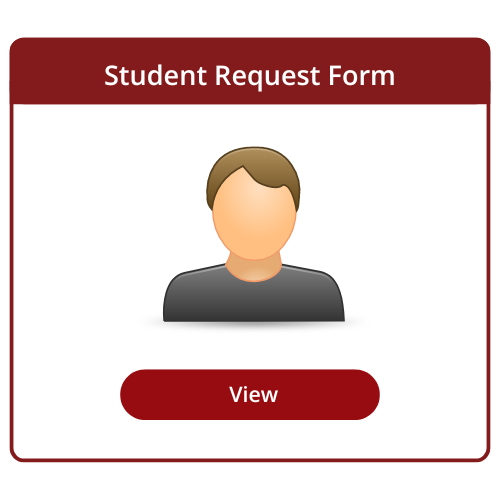
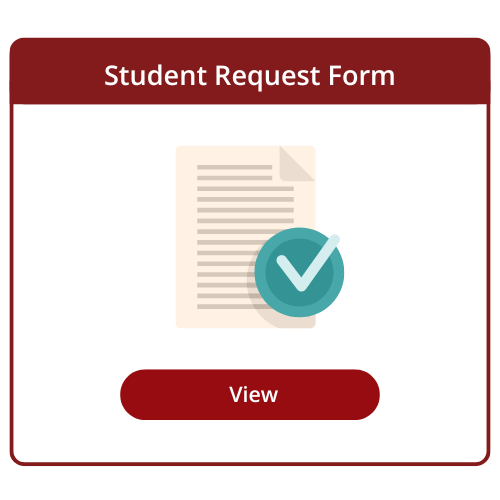
user request and admin dashboard design modified

Changed region(s): [[0.3, 0.27, 0.69, 0.66], [0.0, 0.9, 0.99, 0.93]]

diff --git a/resources/js/Pages/Papers/User/Partials/PaperDetails.jsx b/resources/js/Pages/Papers/User/Partials/PaperDetails.jsx
@@ -5,9 +5,10 @@ import { useForm } from '@inertiajs/react';
 import RequestForm from '@/Components/RequestForm'; // Adjust the path as needed
 // Import the request_button.png, pdf_icon.png, and x_button.png images
 import requestButtonImg from '@/Components/request_button.png';
-import pdfIconImg from '@/Components/pdf_icon.png';
+import pdfIconImg from '@/Components/view file.png';
 import exitButtonImg from '@/Components/x_button.png';
-import logoImg from '@/Components/logo2.png'; // Import the logo image
+import noFile from '@/Components/nofile.png'; // Import the logo image
+import pendingFile from '@/Components/pending file.png'; 
 
 export default function PaperDetails({ user, paper, className = '', success , status}) {
     const { data, setData, post } = useForm({
@@ -101,25 +102,18 @@ export default function PaperDetails({ user, paper, className = '', success , st
                                             <img
                                                 src={pdfIconImg}
                                                 alt="PDF Icon"
-                                                className="block mx-auto w-15 h-20 mb-4"
+                                                className=" mx-auto w-1/2 h-1/2 mb-4"
                                                 style={{ pointerEvents: 'none' }}
                                             />
                                         </a>
-                                        <p className="text-sm mt-2 mb-4" style={{ fontSize: '10px', lineHeight: '1.4' }}>
-                                            View PDF File
-                                        </p>
                                     </div>
                                 ) : (
                                     <div>
-                                    <p className="text-sm mt-2 mb-4" style={{ fontSize: '10px', lineHeight: '1.4' }}>
-                                    To read the full-text of this research,<br></br>
-                                    you can request a copy directly<br></br> from the authors.
-                                    </p>
 
                                     <img
-                                        src={requestButtonImg}
+                                        src={pendingFile}
                                         alt="Request Button"
-                                        className="block mx-auto w-15 h-10"
+                                        className="mx-auto w-1/2 h-1/2"
                                         onClick={handleRequestButtonClick}
                                     />
                                     </div>
@@ -128,7 +122,12 @@ export default function PaperDetails({ user, paper, className = '', success , st
 
                             </div>
                         ) : (
-                            <p>No file</p>
+                            <img
+                            src={noFile}
+                            alt="PDF Icon"
+                            className="mx-auto w-1/2 h-1/2 mb-4"
+                            style={{ pointerEvents: 'none' }}
+                        />
                         )}
                         {success && (
                             <div className="bg-green-400 p-4 rounded-md relative">

diff --git a/resources/js/Pages/AdminDashboard.jsx b/resources/js/Pages/AdminDashboard.jsx
@@ -2,6 +2,7 @@ import AuthenticatedLayout from '@/Layouts/AuthenticatedLayout';
 import { Head } from '@inertiajs/react';
 import logo from '@/Components/logo.png'; // Importing the logo image
 import modifyIcon from '../../../resources/js/Components/modify.png'; // Importing modify icon
+import modifyStudent from '@/Components/modify_student.png'; // Importing the logo image
 import requestIcon from '../../../resources/js/Components/request.png'; // Importing request icon
 import '../../../resources/css/Scrollbar.css';
 import { useEffect } from 'react';
@@ -35,17 +36,15 @@ export default function AdminDashboard({ auth }) {
                         </Link>
                     </div>
 
-                    <div style={{ marginLeft: '20px' }}>
+                    <div style={{ marginRight: '20px'  }}>
                         <Link href={route('userrequest.index')} style={{ color: '#831b1c'}}>
                             <img src={requestIcon} alt="Modify Request Paper" style={{ width: '100%', height: '100%' }} />
                         </Link>
                     </div>
 
-                    <div style={{ marginLeft: '20px' }}>
                         <Link href={route('student.view')} style={{ color: '#831b1c'}}>
-                            <img src={requestIcon} alt="Modify Student Database" style={{ width: '100%', height: '100%' }} />
+                            <img src={modifyStudent} alt="Modify Student Database" style={{ width: '100%', height: '100%' }} />
                         </Link>
-                    </div>
                 </div>
             </div>
         </AuthenticatedLayout>

diff --git a/resources/js/Components/RequestForm.jsx b/resources/js/Components/RequestForm.jsx
@@ -2,7 +2,7 @@ import React from 'react';
 import exitButtonImg from '@/Components/x_button.png';
 import logoImg from '@/Components/logo2.png';
 
-const RequestForm = ({ user, data, setData, submit, handleCloseForm, title }) => {
+const RequestForm = ({ user, data, setData, submit, handleCloseForm }) => {
     // Determine whether the user is an admin
     const isAdmin = user.role === 'admin';
     const handleSubmit = (e, action) => {
@@ -42,7 +42,7 @@ const RequestForm = ({ user, data, setData, submit, handleCloseForm, title }) =>
                         </div>
                         <div style={{ display: 'flex', flexDirection: 'row', alignItems: 'center', marginBottom: '10px', fontSize: '10px' }}>
                             <label htmlFor="title" style={{ marginRight: '5px', width: '50px', textAlign: 'left' ,fontWeight: 'bold'}}>Title:</label>
-                            <input type="text" id="title" value={title} disabled className="rounded-md border-none bg-gray-200 p-1" style={{ width: 'calc(100% - 60px)', fontSize: '10px', borderRadius: '3px' }} />
+                            <input type="text" id="title" value={data.paper.title} disabled className="rounded-md border-none bg-gray-200 p-1" style={{ width: 'calc(100% - 60px)', fontSize: '10px', borderRadius: '3px' }} />
                         </div>
                         <div style={{ display: 'flex', flexDirection: 'column', marginBottom: '1px' }}>
                             <label htmlFor="purpose" style={{ fontSize: '14px' }}></label>

diff --git a/resources/js/Pages/Papers/Admin/Partials/PaperForm.jsx b/resources/js/Pages/Papers/Admin/Partials/PaperForm.jsx
@@ -93,7 +93,7 @@ export default function PaperForm({ auth, paper, className = '' }) {
             <section className={`bg-white p-4 md:p-10 ${className}`} style={{ width: "100%" }}>
                 <header>
                     <h2 className="text-lg font-medium text-gray-900" style={{ fontSize: '20px', fontWeight:'bolder' }}>Research Paper Information</h2>
-                    <p className="mt-1 text-sm text-gray-600" style={{ fontSize: '10px', }}>Update Research Paper here!</p>
+                    <p className="mt-1 text-sm text-gray-600" style={{ fontSize: '10px', }}></p>
                 </header>
                 <form onSubmit={submit} className="mt-6 space-y-6">
                     <div>
@@ -225,7 +225,8 @@ export default function PaperForm({ auth, paper, className = '' }) {
                     {/* View File link */}
                     {data.file && (
                         <>
-                        <a href={data.file} target="_blank" rel="noopener noreferrer" className="mt-2">View File</a>
+                        <a href={data.file} target="_blank" rel="noopener noreferrer" className="mt-2" style={{ color: 'white', textDecoration: 'underline', fontWeight: 'normal' }}>View File</a>
+
                         
                         </>
                     )}

diff --git a/resources/js/Pages/Request/Admin/AdminView.jsx b/resources/js/Pages/Request/Admin/AdminView.jsx
@@ -21,6 +21,7 @@ export default function AdminView({ auth, requestpapers , status}) {
         setSuccessMessage(null);
     }, [requestpapers]);
 
+    console.log(requestpapers)
     const handleDelete = (itemId, itemTitle) => {
         if (confirm(`Are you sure you want to delete "${itemTitle}"?`)) {
             // deletePaper(route('papers.destroy', itemId));
@@ -126,7 +127,6 @@ export default function AdminView({ auth, requestpapers , status}) {
                     user={auth.user}
                     data={rowData}
                     handleCloseForm={handleCloseForm}
-                    title="Your Form Title"
                     submit={handleSubmit}
                 />
             )}

diff --git a/resources/js/Components/RequestFilter.jsx b/resources/js/Components/RequestFilter.jsx
@@ -4,7 +4,7 @@ const RequestFilter = ({ filterOption, handleFilterChange }) => {
     return (
         <div className="flex justify-end mb-4">
             <div className="flex items-center">
-                <label htmlFor="filter" className="mr-2">Filter by:</label>
+                <label htmlFor="filter" className="ml-1">Filter by:</label>
                 <select
                     id="filter"
                     className="p-2 rounded-md border border-solid border-#352D2D bg-white focus:outline-none"
